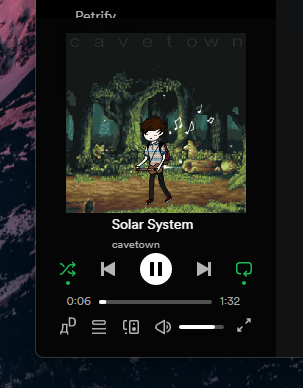
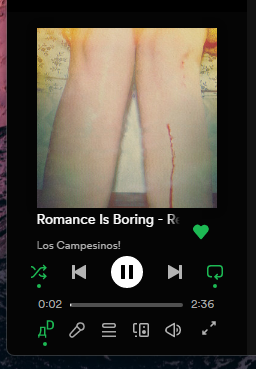
Add files via upload

diff --git a/Sidebar-Controls/user.css b/Sidebar-Controls/user.css
@@ -1,102 +1,117 @@
-.Root__now-playing-bar {
-    width: calc(var(--nav-bar-width) + 9px);
-    padding-block: 15px;
-    background-color: #050505;
-}
-footer.main-nowPlayingBar-container {
+.Root__top-container {
+    grid-template-areas: "nav-bar main-view" "nav-bar main-view" "now-playing-bar main-view";
+  }
+  .Root__top-container--right-sidebar-visible {
+    grid-template-areas: "nav-bar main-view right-sidebar" "nav-bar main-view right-sidebar" "now-playing-bar main-view right-sidebar";
+  }
+  
+  .Root__now-playing-bar,
+  .main-nowPlayingBar-container,
+  .main-nowPlayingBar-nowPlayingBar {
     width: calc(var(--nav-bar-width) + 9px);
     min-width: 0;
     height: 100%;
-}
-.main-nowPlayingBar-left {
-    display: flex;
-    flex-wrap: nowrap;
-    flex-direction: column-reverse;
-    align-content: stretch;
-    justify-content: space-evenly;
-    width: 100%;
-}
-.main-nowPlayingBar-nowPlayingBar {
-    height: 100% !important;
-    width: calc(var(--nav-bar-width) + 9px);
-    display: initial;
     display: flex;
     flex-direction: column;
-    align-content: center;
-    flex-wrap: wrap;
-}
-.Root__top-container {
-    grid-template-areas: "nav-bar main-view" "nav-bar main-view" "now-playing-bar main-view";
-}
-.Root__top-container--right-sidebar-visible {
-    grid-template-areas: "nav-bar main-view right-sidebar" "nav-bar main-view right-sidebar" "now-playing-bar main-view right-sidebar";
-}
-.main-nowPlayingBar-left * {
-    display: flex;
-    flex-direction: column;
-}
-.main-nowPlayingBar-center {
-    width: 100%;
-}
-.encore-bright-accent-set {
-    transform: translate(0px, -15px);
-}
-.main-trackInfo-name {
-    margin-top: 10px;
-}
-button.main-coverSlotCollapsed-expandButton {
-    display: none;
-}
-footer.main-nowPlayingBar-container {
     border-top: none;
-    background: transparent;
-}
-.main-nowPlayingBar-right > div {
-    justify-content: center;
-}
-.main-nowPlayingBar-right {
+    background-color: #050505;
+  }
+  
+  .main-nowPlayingBar-center {
     width: 100%;
-}
-.volume-bar:hover ~ button.control-button {
-    display: none;
-}
-.volume-bar:hover ~ div.main-connectPicker-button {
-    display: none;
-}
-.main-connectBar-connectBar.encore-bright-accent-set {
-    transform: translate(0px, 14px);
-}
-.main-trackInfo-container * {
-    width: 100% !important;
-    text-align: center !important;
-    margin-inline: 0 !important;
-    margin-top: 0;
-    display: flex;
-    justify-content: center;
+  }
+  .main-nowPlayingBar-left {
+    margin-top: 1em;
+  }
+  
+  .main-nowPlayingBar-right {
+    margin-bottom: 10px;
     align-items: center;
-}
-.main-trackInfo-container {
-    width: 95%;
-    text-align: center;
-}
-.main-trackInfo-artists {
-    flex-direction: row;
     justify-content: center;
-}
-.main-trackInfo-artists * {
+  }
+  
+  .volume-bar:hover ~ .control-button,
+  .main-coverSlotExpanded-container,
+  button.main-coverSlotCollapsed-expandButton {
+    display: none;
+  }
+  
+  .main-nowPlayingBar-left * {
+    display: flex;
+    flex-direction: column;
+    transform: none !important;
+    width: 100%;
+  }
+  
+  .main-coverSlotCollapsed-container.main-coverSlotCollapsed-navAltContainer,
+  .main-coverSlotCollapsed-container.main-coverSlotCollapsed-navAltContainer * {
+    width: 180px !important;
+    height: 180px !important;
+    transform: none !important;
+  }
+  .main-coverSlotCollapsed-container.main-coverSlotCollapsed-navAltContainer
+    *
+    > .icon {
+    position: initial !important;
+  }
+  
+  .main-trackInfo-container > * * {
+    width: 100%;
+    text-align: center;
+    transform: none !important;
+    padding: 0;
+    margin: 0;
+  }
+  
+  .main-connectPicker-button > div {
+    transform: translateY(-19px);
+  }
+  
+  .main-nowPlayingWidget-nowPlaying {
+    width: 100%;
+    display: grid;
+    grid-template: "Art Art" "Info Like";
+  }
+  .main-nowPlayingWidget-nowPlaying > * {
+    display: grid;
+  }
+  
+  .main-coverSlotCollapsed-container.main-coverSlotCollapsed-navAltContainer {
+    grid-area: Art;
+  }
+  
+  .main-trackInfo-container {
+    grid-area: Info;
+    justify-self: self-end;
+    margin: 0;
+    transform: translate(-6px, 0px) !important;
+  }
+  
+  button.main-addButton-button.control-button.control-button-heart.main-addButton-active {
+    grid-area: Like;
+  }
+  
+  .main-trackInfo-artists {
+    display: flex;
+    flex-direction: row;
+  }
+  
+  .main-trackInfo-artists > * {
+    margin-left: 3px;
+    text-align: left;
+  }
+  
+  .main-trackInfo-artists * {
     display: inline;
-    width: fit-content;
-}
-#main > div > div.Root__top-container > div.Root__now-playing-bar > footer > div > div.main-nowPlayingBar-left > div > div.main-coverSlotCollapsed-container.main-coverSlotCollapsed-navAltContainer > div > div > a > div > div > div > div {
-    display: none;
-}
-.main-coverSlotCollapsed-container.main-coverSlotCollapsed-navAltContainer, .main-coverSlotCollapsed-container.main-coverSlotCollapsed-navAltContainer * {
-    width: 180px;
-    height: 180px;
-}
-[dir=ltr] .main-nowPlayingWidget-coverExpanded {
-    transform: translateX(0px);
-}
-.main-coverSlotExpanded-container {
-    display: none;
-}
+  }
+  
+  .main-trackInfo-name * {
+    margin-left: 1px;
+    text-align: left;
+  }
+  
+  
+  button.main-addButton-button.control-button.control-button-heart.main-addButton-active {
+      width: fit-content;
+      justify-self: end;
+  }
